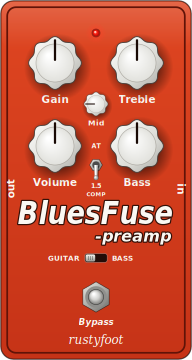
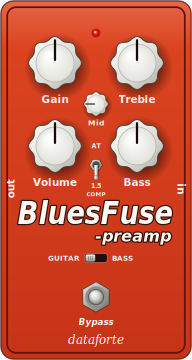
Brand as Dataforte instead of Rustyfoot
Maker/brand in all formats (LV2 author, VST3 vendor, CLAP vendor), the
modgui brand and the maker line on the pedal artwork. Identifiers move
with it while the plugin is unreleased: CLAP id pi.stom.dataforte.*,
VST3 brand id Dfte (changes the VST3 class ids), VST2 unique id. The
LV2 URI already used dataforte and is unchanged.

Changed region(s): [[0.3438, 0.9167, 0.6562, 0.9778]]

diff --git a/plugins/BluesFuse/PluginBluesFuse.cpp b/plugins/BluesFuse/PluginBluesFuse.cpp
@@ -74,11 +74,11 @@ protected:
                "Custom Shop Comp and MB), after the Aion FX trace schematics: TS-style diode "
                "clipper, dual-gang volume and 2-band Baxandall EQ.";
     }
-    const char* getMaker() const override { return "Rustyfoot"; }
+    const char* getMaker() const override { return "Dataforte"; }
     const char* getHomePage() const override { return "https://github.com/tristantarrant/bluesfuse-preamp"; }
     const char* getLicense() const override { return "GPL-2.0-or-later"; }
     uint32_t getVersion() const override { return d_version(1, 1, 0); }
-    int64_t getUniqueId() const override { return d_cconst('R', 'b', 'F', 's'); }
+    int64_t getUniqueId() const override { return d_cconst('D', 'b', 'F', 's'); }
 
     void initAudioPort(const bool input, const uint32_t index, AudioPort& port) override
     {

diff --git a/plugins/BluesFuse/DistrhoPluginInfo.h b/plugins/BluesFuse/DistrhoPluginInfo.h
@@ -7,12 +7,12 @@
 #ifndef DISTRHO_PLUGIN_INFO_H_INCLUDED
 #define DISTRHO_PLUGIN_INFO_H_INCLUDED
 
-#define DISTRHO_PLUGIN_BRAND   "Rustyfoot"
+#define DISTRHO_PLUGIN_BRAND   "Dataforte"
 #define DISTRHO_PLUGIN_NAME    "BluesFuse Preamp"
 #define DISTRHO_PLUGIN_URI     "http://dataforte.stom-pi/plugins/bluesfuse"
-#define DISTRHO_PLUGIN_CLAP_ID "pi.stom.rustyfoot.bluesfuse"
+#define DISTRHO_PLUGIN_CLAP_ID "pi.stom.dataforte.bluesfuse"
 
-#define DISTRHO_PLUGIN_BRAND_ID  Rsty
+#define DISTRHO_PLUGIN_BRAND_ID  Dfte
 #define DISTRHO_PLUGIN_UNIQUE_ID bFus
 
 #define DISTRHO_PLUGIN_HAS_UI          1

diff --git a/plugins/BluesFuse/Artwork.hpp b/plugins/BluesFuse/Artwork.hpp
@@ -460,7 +460,7 @@ inline void draw(cairo_t* cr, const State& s, unsigned layers = kLayerAll)
 
         footswitch(cr, FOOT_X, FOOT_Y);
         text(cr, "Bypass", FOOT_X, FOOT_Y + 35, 11, kWhite, kCenter, true, true);
-        text(cr, "rustyfoot", W / 2, H - 20, 15, kWhite, kCenter, false, true, "DejaVu Serif");
+        text(cr, "dataforte", W / 2, H - 20, 15, kWhite, kCenter, false, true, "DejaVu Serif");
     }
 
     if (layers & kLayerKnobs) {

diff --git a/tools/render_modgui.cpp b/tools/render_modgui.cpp
@@ -195,7 +195,7 @@ static bool write_modgui_text(const std::string& dir)
         "        modgui:stylesheet <modgui/stylesheet.css> ;\n"
         "        modgui:screenshot <modgui/screenshot.png> ;\n"
         "        modgui:thumbnail <modgui/thumbnail.png> ;\n"
-        "        modgui:brand \"Rustyfoot\" ;\n"
+        "        modgui:brand \"Dataforte\" ;\n"
         "        modgui:label \"BluesFuse Preamp\" ;\n"
         "    ] .\n";
 
